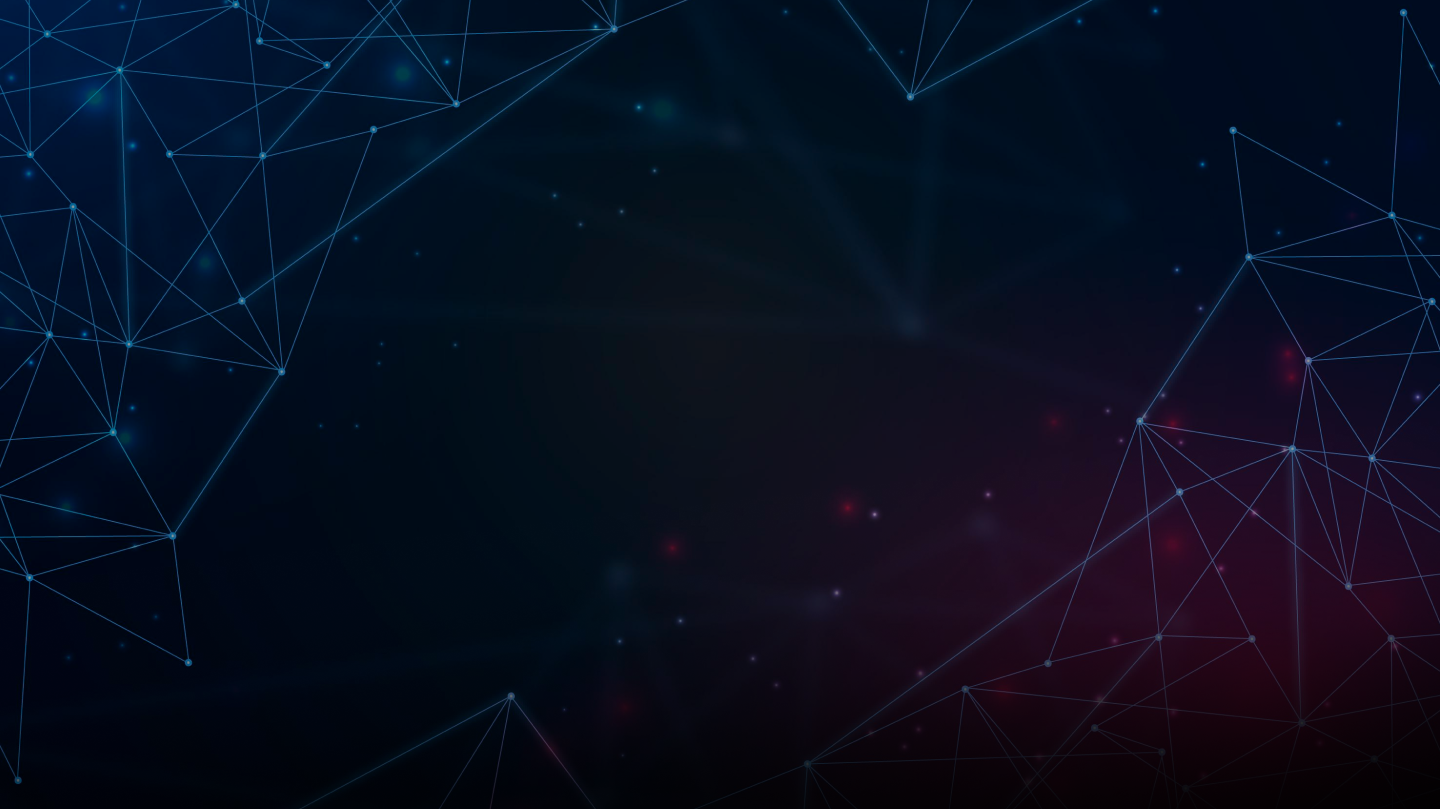
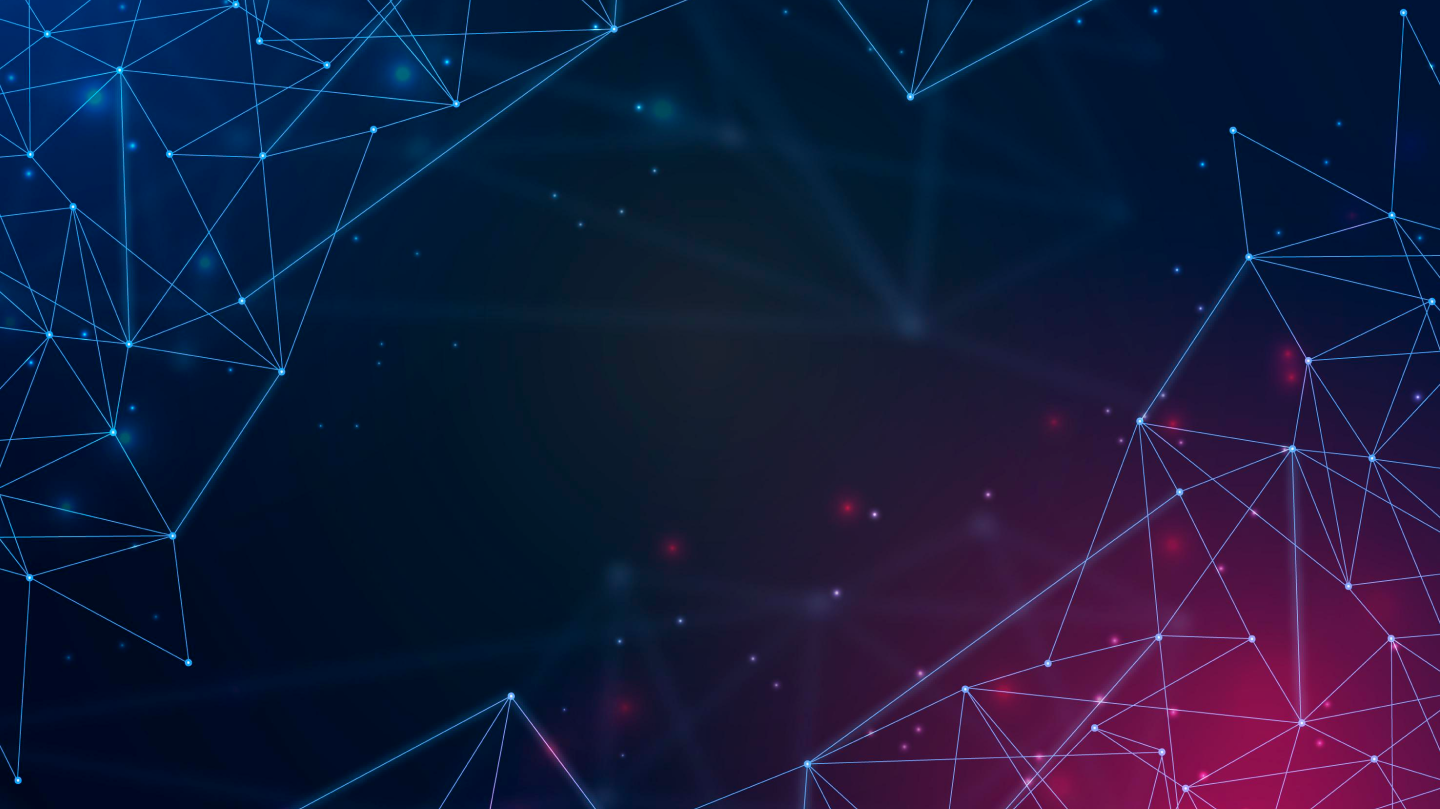
Footer work is done

diff --git a/src/app/footer/footer.component.html b/src/app/footer/footer.component.html
@@ -1,1 +1,75 @@
-<p>footer works!</p>
+<!-- Main Footer -->
+<footer class="main-footer-color">
+    <div class="container py-5">
+        <div class="row py-4">
+
+            <div class="col-lg-2 col-md-6 mb-4 mb-lg-0">
+                <h6 class="mb-4">Company
+                </h6>
+                <ul class="list-unstyled mb-0">
+                    <li class="mb-2"><a class="a-text clickable">Home</a></li>
+                    <li class="mb-2"><a class="a-text clickable">Consulting</a></li>
+                    <li class="mb-2"><a class="a-text clickable">Security</a></li>
+                    <li class="mb-2"><a class="a-text clickable">Services</a></li>
+                </ul>
+            </div>
+            <div class="col-lg-3 col-md-6 mb-4 mb-lg-0">
+                <h6 class=" mb-4">Company
+                </h6>
+                <ul class="list-unstyled mb-0">
+                    <li class="mb-2"><a class="a-text clickable">Cyber Security</a></li>
+                    <li class="mb-2"><a class="a-text clickable">Data Protection</a></li>
+                    <li class="mb-2"><a class="a-text clickable">Solutions</a></li>
+                    <li class="mb-2"><a class="a-text clickable">Development</a></li>
+                </ul>
+            </div>
+            <div class="col-lg-3 col-md-6 mb-4 mb-lg-0">
+                <h6 class=" mb-4">Contact</h6>
+                <ul class="list-unstyled mb-0">
+                    <li class="mb-2"><a class="a-text">444 Castro Street Suite 400 Mountain View, CA 94041
+                        </a></li>
+                    <li class="mb-2"><a href="#" class="a-text">+1-855-868-3733
+                        </a></li>
+                    <li class="mb-2"><a href="#" class="a-text">sales@sitename.com
+                        </a></li>
+                </ul>
+            </div>
+            <div class="col-lg-4 col-md-6 mb-lg-0">
+                <h6 class=" mb-4">SIGN UP FOR OUR NEWSLETTER
+                </h6>
+                <div class="p-1 rounded ">
+                    <div class="input-group">
+                        <input type="email" placeholder="Business Email" class="input-style input-icon">
+
+                    </div>
+                </div>
+                <p class="sign-up-text mb-4">
+                    By clicking Subscribe, I agree to the use of my personal data in accordance
+                    with SentinelOne Privacy Policy. SentinelOne will not sell, trade, lease, or rent your personal data
+                    to third parties.
+                </p>
+            </div>
+        </div>
+    </div>
+
+    <!-- light-footer  -->
+    <div class="light-footer-style py-4">
+        <div class="container text-center">
+            <div class="row">
+                <div class="col-lg-2">
+                    <p class="term-container mb-0 py-2"> Terms of Service</p>
+
+                </div>
+                <div class="col-lg-8">
+                    <p class="rights-container mb-0 py-2">©{{currentYear}} Zenuit Consulting Services, All Rights
+                        Reserved. </p>
+                </div>
+                <div class="col-lg-2">
+                    <p class="privacy-container mb-0 py-2"> Privacy Policy</p>
+
+                </div>
+            </div>
+        </div>
+
+    </div>
+</footer>

diff --git a/src/app/home/home.component.scss b/src/app/home/home.component.scss
@@ -2,12 +2,113 @@
     width: 271px;
     height: 51px;
 }
+.container {
+    z-index: 1;
+}
 
+.home-section-1 {
+    .section-1-mask-1 {
+        position: absolute;
+        width: 100%;
+        height: 100%;
+        left: -297px;
+        top: 840.15px;
+        background: #000000;
+        filter: blur(220px);
+        transform: rotate(-17.22deg);
+    }
+
+    .section-1-mask-2 {
+        position: absolute;
+        left: 0px;
+        top: 0px;
+        background: #000000;
+        opacity: 0.4;
+        width: 100%;
+        height: 100%;
+    }
+    .test {
+        position: absolute;
+        width: 100%;
+        height: 100%;
+        left: 0px;
+        top: 0px;
+
+        background: #000000;
+        opacity: 0.4;
+    }
+}
 .home-section-2 {
     background: url("../../assets/images/bg-2.png");
     width: 100%;
-    position: relative;
+    // position: relative;
     /* padding: 60px 0; */
+    -webkit-background-size: cover;
+    -moz-background-size: cover;
+    background-size: cover;
+    background-repeat: no-repeat;
+    height: 100%;
+    display: flex;
+    align-items: center;
+    justify-content: center;
+    .section-2-mask-1 {
+        position: absolute;
+        width: 100%;
+        height: 100%;
+        left: -625px;
+        top: 629.21px;
+        background: #000000;
+        filter: blur(220px);
+        transform: rotate(-17.22deg);
+    }
+
+    .section-2-mask-2 {
+        position: absolute;
+        left: -439px;
+        top: 1687.57px;
+        width: 100%;
+        height: 100%;
+        background: #000000;
+        filter: blur(220px);
+        transform: rotate(-10.69deg);
+    }
+    .section-2-mask-3 {
+        position: absolute;
+        left: 0px;
+        top: 809px;
+        width: 100%;
+        height: 100%;
+        background: #000000;
+        opacity: 0.5;
+    }
+    .section-2-mask-4 {
+        position: absolute;
+        width: 100%;
+        height: 100%;
+        left: 0px;
+        top: 809px;
+        background: #000000;
+    }
+}
+
+.home-section-3 {
+    background: url("../../assets/images/bg-3.png");
+    width: 100%;
+    // position: relative;
+    -webkit-background-size: cover;
+    -moz-background-size: cover;
+    background-size: cover;
+    background-repeat: no-repeat;
+    height: 100%;
+    display: flex;
+    align-items: center;
+    justify-content: center;
+}
+
+.home-section-4 {
+    background: url("../../assets/images/bg-4.png");
+    width: 100%;
+    // position: relative;
     -webkit-background-size: cover;
     -moz-background-size: cover;
     background-size: cover;

diff --git a/src/app/footer/footer.component.scss b/src/app/footer/footer.component.scss
@@ -1,0 +1,96 @@
+.main-footer-color {
+    background: #01001d;
+    h6 {
+        font-family: Montserrat;
+        font-style: normal;
+        font-weight: bold;
+        font-size: 18px;
+        line-height: 22px;
+        color: #ffffff;
+    }
+    .a-text {
+        font-family: Poppins;
+        font-style: normal;
+        font-weight: normal;
+        font-size: 14px;
+        line-height: 21px;
+        color: #ffffff;
+        opacity: 0.6;
+    }
+
+    .a-text:hover {
+        font-size: 16px;
+        color: transparent;
+        -webkit-text-stroke: 1px #00a6d6;
+    }
+    .input-style {
+        width: 305px;
+        height: 43px;
+        background: #ffffff;
+        border-radius: 5px;
+        text-align: left;
+        padding-right: 35px;
+        padding-left: 12px;
+    }
+    .input-icon {
+        background-image: url("../../assets/images/input-icon.png");
+        background-size: 19px;
+        background-repeat: no-repeat;
+        background-position: right;
+        background-position-x: 95%;
+    }
+    .sign-up-text {
+        font-family: Poppins;
+        font-style: normal;
+        font-weight: normal;
+        font-size: 12px;
+        line-height: 130%;
+        color: #797979;
+        width: 305px;
+        padding-left: 6px;
+        margin-top: 5px;
+    }
+}
+.light-footer-style {
+    background: #11000c;
+    .term-container {
+        font-family: Poppins;
+        font-style: normal;
+        font-weight: normal;
+        font-size: 14px;
+        line-height: 130%;
+        text-align: center;
+        color: #ffffff;
+    }
+    .rights-container {
+        font-family: Poppins;
+        font-style: normal;
+        font-weight: normal;
+        font-size: 14px;
+        line-height: 130%;
+        text-align: center;
+        color: #ffffff;
+        opacity: 0.6;
+    }
+    .privacy-container {
+        font-family: Poppins;
+        font-style: normal;
+        font-weight: normal;
+        font-size: 14px;
+        line-height: 130%;
+        color: #ffffff;
+    }
+}
+
+// .a-text::after {
+//     content: "";
+//     width: 0%;
+//     height: 2px;
+//     background: #00a6d6;
+//     display: block;
+//     margin: auto;
+// }
+// .a-text:hover::after {
+//     width: 100%;
+//     transition: 0.5s;
+// }

diff --git a/src/app/home/home.component.html b/src/app/home/home.component.html
@@ -1,4 +1,7 @@
 <section class="home-section-1">
+    <!-- <div class="section-1-mask-1"></div>
+    <div class="section-1-mask-2"></div> -->
+    <!-- <div class="test"></div> -->
     <div class="container">
         <div class="row">
             <div class="col-12">
@@ -20,7 +23,11 @@
     </div>
 </section>
 
-<section class="home-section-1 home-section-2">
+<section class="home-section-2">
+    <!-- <div class="section-2-mask-1"></div>
+    <div class="section-2-mask-2"></div>
+    <div class="section-2-mask-3"></div>
+    <div class="section-2-mask-4"></div> -->
     <div class="container">
         <div class="divider-info ptb column-style">
             <div class="row">
@@ -47,4 +54,16 @@
         </div>
     </div>
 
+</section>
+
+<section class="home-section-3">
+    <div class="container">
+
+    </div>
+</section>
+
+<section class="home-section-4">
+    <div class="container">
+
+    </div>
 </section>

diff --git a/src/assets/css/main.css b/src/assets/css/main.css
@@ -235,7 +235,7 @@ strong {
 
 /* Call to action */
 .home-section-1 {
-  background: url("../images/bg-1.png") scroll center center;
+  background: url("../images/bg-1.png");
   width: 100%;
   position: relative;
   /* padding: 60px 0; */
@@ -249,15 +249,15 @@ strong {
   justify-content: center;
 }
 
-.home-section-1::before {
+/* .home-section-1::before {
   position: absolute;
   width: 100%;
   height: 100%;
   top: 0;
   left: 0;
   content: "";
-  /* background-color: rgba(0, 0, 0, 0.3); */
-}
+  background-color: rgba(0, 0, 0, 0.3);
+} */
 
 .cta-area {
   display: table;
@@ -3598,6 +3598,7 @@ ul.nav-tabs li a {
     padding: 12px 12px;
   }
 }
+
 @media (max-width: 640px) {
   .page-header-title .heading-title {
     font-size: 24px;
@@ -3744,6 +3745,7 @@ ul.nav-tabs li a {
     margin-bottom: 30px;
   }
 }
+
 @media (max-width: 480px) {
   .navbar-brand img {
     max-width: 120px;

diff --git a/src/app/footer/footer.component.ts b/src/app/footer/footer.component.ts
@@ -6,7 +6,7 @@ import { Component, OnInit } from '@angular/core';
   styleUrls: ['./footer.component.scss']
 })
 export class FooterComponent implements OnInit {
-
+  currentYear = new Date().getFullYear();
   constructor() { }
 
   ngOnInit(): void {

diff --git a/src/app/app.component.html b/src/app/app.component.html
@@ -1,3 +1,3 @@
-<app-header> </app-header>
-<router-outlet></router-outlet>
+<!-- <app-header> </app-header>
+<router-outlet></router-outlet> -->
 <app-footer></app-footer>
